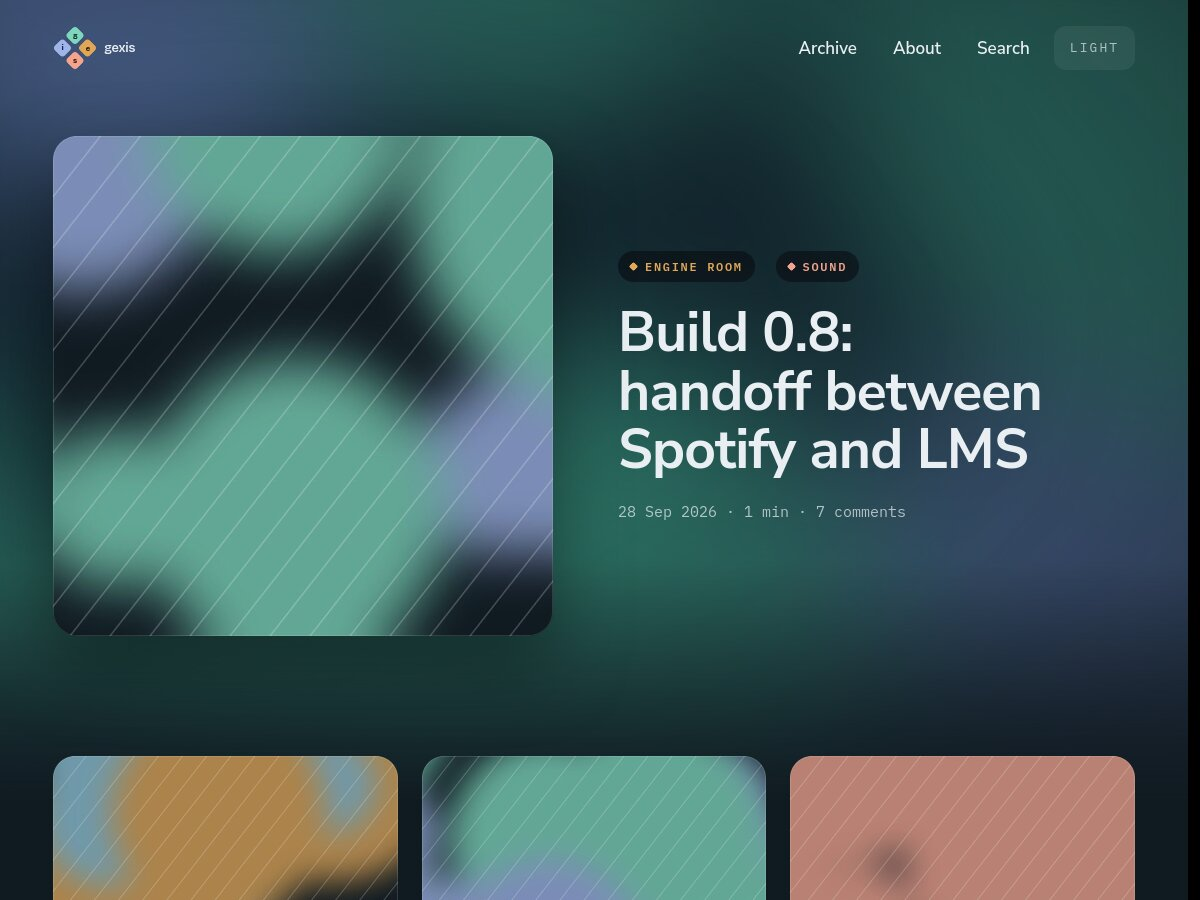
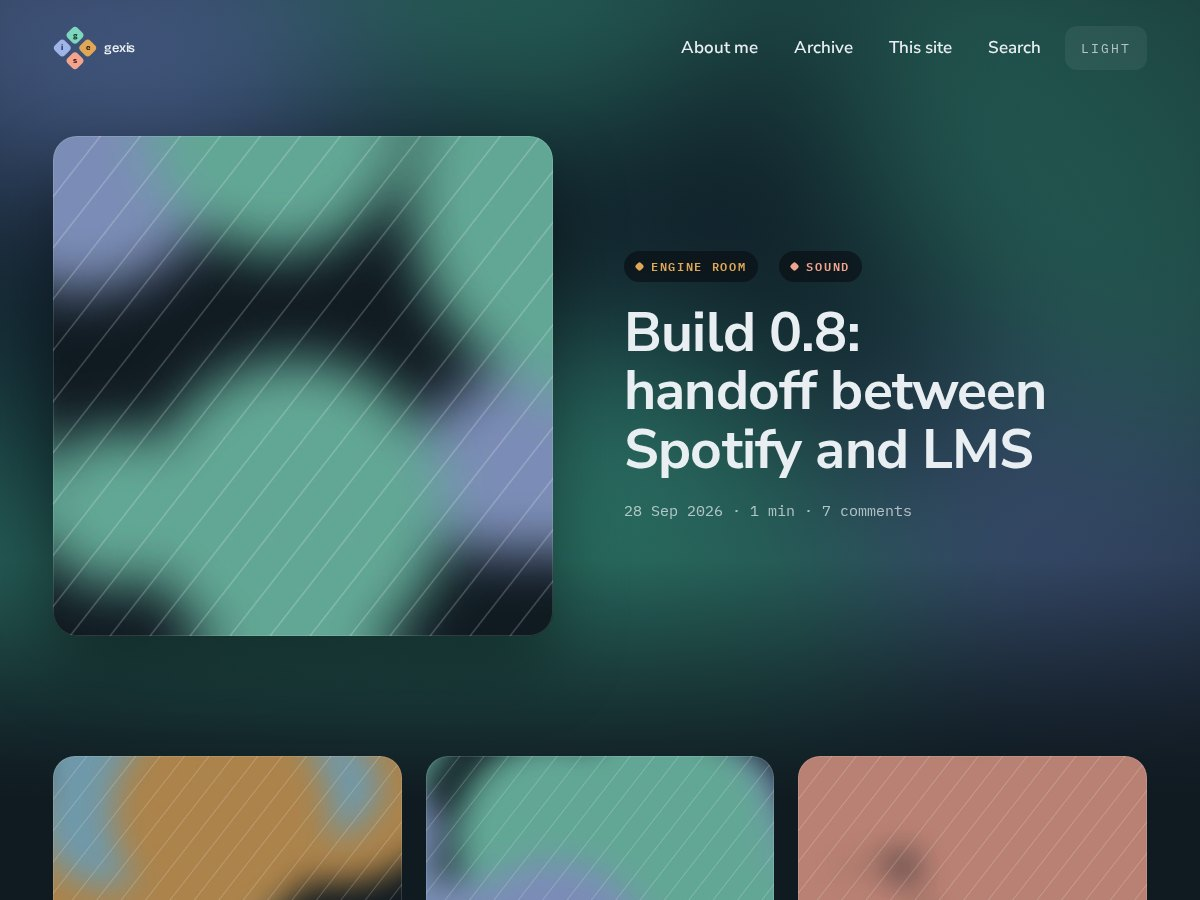
New screenshot of the current header (1.0.6)

diff --git a/style.css b/style.css
@@ -7,7 +7,7 @@ Description: A block theme for gexis, a personal site in four parts — gazette,
 Requires at least: 6.6
 Tested up to: 6.8
 Requires PHP: 7.4
-Version: 1.0.5
+Version: 1.0.6
 License: GNU General Public License v3 or later
 License URI: https://www.gnu.org/licenses/gpl-3.0.html
 Text Domain: gexis

diff --git a/README.md b/README.md
@@ -23,8 +23,9 @@ page.
 
 ## Version
 
-**1.0.5**, 24 Oct 2026. What changed lately:
+**1.0.6**, 24 Oct 2026. What changed lately:
 
+- **1.0.6** New screenshot, showing the current header.
 - **1.0.5** Inbox is for reader feedback and requests. Its default
   description reads: *Feedback and requests: what readers ask me to look into,
   fix or think about again.* A description set in Posts → Tags still wins.
